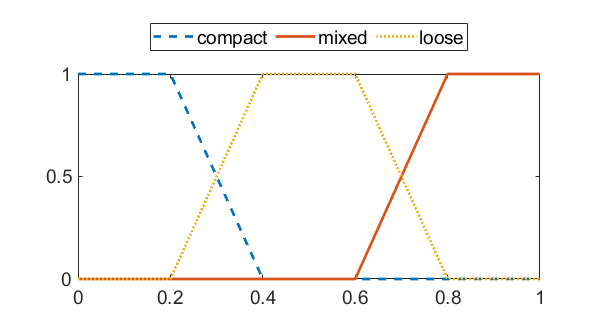
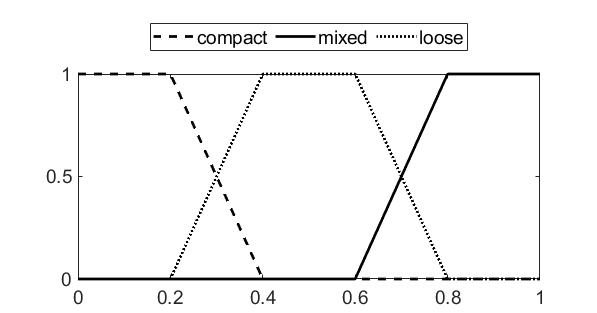
all plots now in black and white

diff --git a/fuzzyPlot.m b/fuzzyPlot.m
@@ -4,8 +4,8 @@ fis1 = readfis('blade_ang.fis');
 fis2 = readfis('blade_height.fis');
 % plotfis(fis)
 
-% plotter2(fis1,  'input', 1, [-3.2 3.2 0 1], {'neg', 'zero', 'pos'}, 3, {'--', '-', ':'})
-% plotter2(fis1, 'output', 1, [-1.2 1.2 0 1], {'neg', 'zero', 'pos'}, 3, {'--', '-', ':'})
+plotter2(fis1,  'input', 1, [-3.2 3.2 0 1], {'neg', 'zero', 'pos'}, 3, {'--', '-', ':'})
+plotter2(fis1, 'output', 1, [-1.2 1.2 0 1], {'neg', 'zero', 'pos'}, 3, {'--', '-', ':'})
 
 plotter2(fis2,  'input', 1, [0 1. 0 1], {'compact', 'mixed', 'loose'}, 3, {'--', '-', ':'})
 plotter2(fis2, 'output', 1, [-0.35 -0.15 0 1], {'low', 'lower', 'lowest'}, 3, {'--', '-', ':'})
@@ -22,5 +22,5 @@ function[] = plotter2(fis, io, x1, x2, x3, x4, x5)
     NameArray = {'LineStyle'};
     ValueArray = transpose(x5);
     set(p,NameArray,ValueArray)
-    % set(p, 'Color', [0, 0, 0])
+    set(p, 'Color', [0, 0, 0])
 end

diff --git a/main.m b/main.m
@@ -7,10 +7,10 @@ soil = 1;           % select the soil paramters (0 compact, 1 loose)
 run("parameters.m") % run file with params
 
 % testing varaibles
-desired_abg = [0, 0, 0];   % [control pitch (1) or not (0), pitch (rad.), roll (rad.)]
-surface_abg = [0, 0, 0.35]; % the yaw, pitch, and roll of the surface (radians)
+desired_abg = [1, 0, 0];   % [control pitch (1) or not (0), pitch (rad.), roll (rad.)]
+surface_abg = [0, 0, 0]; % the yaw, pitch, and roll of the surface (radians)
 bld_ang     = [0; 0; 0];    % angle of blade about it local x, y, and z-axis
-bool_abg    = [0, 0, 1];   % plot yaw, pitch, roll [1 = True, 0 = False]
+bool_abg    = [0, 0, 0];   % plot yaw, pitch, roll [1 = True, 0 = False]
 
 % the set of inputs to the simulation
 padding = 0;       % padding since simulink drops the first value of input matrices
